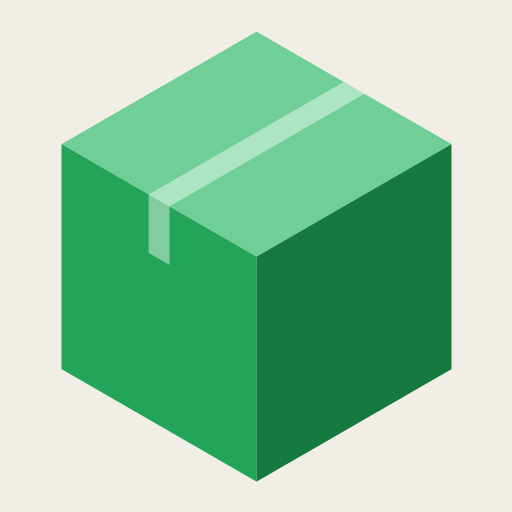
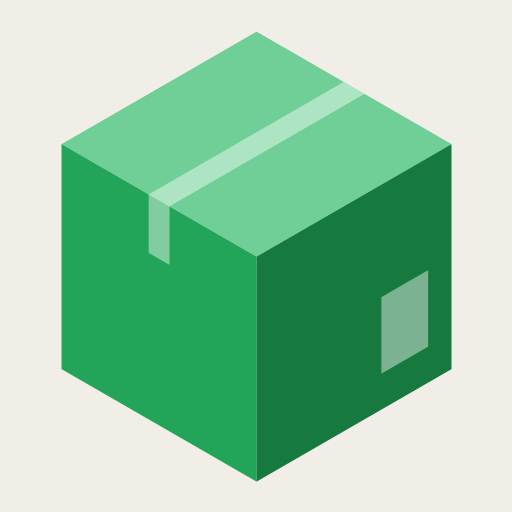
Etichetta icona verticale/piu larga, blocca navigazione calendario Orario prima di gennaio 2026

Changed region(s): [[0.7188, 0.5312, 0.8438, 0.7188]]

diff --git a/index.html b/index.html
@@ -592,6 +592,8 @@
     }
 
     .mese-nav button:hover { background: var(--base-hover); }
+    .mese-nav button:disabled { opacity: 0.35; cursor: default; }
+    .mese-nav button:disabled:hover { background: var(--base); }
     .mese-nav button:active { box-shadow: var(--shadow-in-sm); }
 
     .mese-label { font-size: 1rem; font-weight: 700; color: var(--text); text-transform: capitalize; }
@@ -894,7 +896,7 @@
 
     <div class="container">
       <div class="mese-nav">
-        <button onclick="cambiaMese(-1)">‹</button>
+        <button onclick="cambiaMese(-1)" id="mese-prev">‹</button>
         <div class="mese-label" id="mese-label">—</div>
         <button onclick="cambiaMese(1)">›</button>
       </div>
@@ -1416,14 +1418,19 @@
     }
 
     function cambiaMese(delta) {
-      orarioMeseCorrente += delta;
-      if (orarioMeseCorrente < 0) { orarioMeseCorrente = 11; orarioAnnoCorrente--; }
-      if (orarioMeseCorrente > 11) { orarioMeseCorrente = 0; orarioAnnoCorrente++; }
+      let nuovoMese = orarioMeseCorrente + delta;
+      let nuovoAnno = orarioAnnoCorrente;
+      if (nuovoMese < 0) { nuovoMese = 11; nuovoAnno--; }
+      if (nuovoMese > 11) { nuovoMese = 0; nuovoAnno++; }
+      if (nuovoAnno < 2026) return; // non si naviga prima di gennaio 2026
+      orarioMeseCorrente = nuovoMese;
+      orarioAnnoCorrente = nuovoAnno;
       renderMeseOrario();
     }
 
     function renderMeseOrario() {
       document.getElementById('mese-label').textContent = MESI[orarioMeseCorrente] + ' ' + orarioAnnoCorrente;
+      document.getElementById('mese-prev').disabled = (orarioAnnoCorrente <= 2026 && orarioMeseCorrente === 0);
 
       const numGiorni = new Date(orarioAnnoCorrente, orarioMeseCorrente + 1, 0).getDate();
       const oggi = new Date(); oggi.setHours(0, 0, 0, 0);